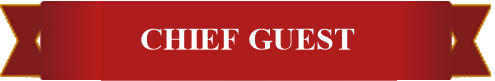
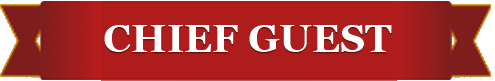
fix: switch ribbon typography to bold high-contrast Georgia font and increase height for clarity

Changed region(s): [[0.2121, 0.2963, 0.8182, 0.6667]]

diff --git a/src/app/page.tsx b/src/app/page.tsx
@@ -96,10 +96,10 @@ export default function InvitationPage() {
               <div className="person-col">
                 <div className="person-ribbon-wrap">
                   <Image
-                    src="/chief_guest_ribbon.png?v=2"
+                    src="/chief_guest_ribbon.png?v=3"
                     alt="Chief Guest"
-                    width={136}
-                    height={30}
+                    width={140}
+                    height={23}
                     className="person-ribbon-img"
                     priority
                   />
@@ -125,10 +125,10 @@ export default function InvitationPage() {
               <div className="person-col">
                 <div className="person-ribbon-wrap">
                   <Image
-                    src="/founder_ribbon.png?v=2"
+                    src="/founder_ribbon.png?v=3"
                     alt="Founder"
-                    width={136}
-                    height={30}
+                    width={140}
+                    height={23}
                     className="person-ribbon-img"
                     priority
                   />

diff --git a/src/app/globals.css b/src/app/globals.css
@@ -438,13 +438,13 @@ div[data-next-badge] {
   justify-content: center;
   align-items: center;
   margin-bottom: 10px;
-  height: 28px;
+  height: 32px;
 }
 
 .person-ribbon-img {
   width: auto;
-  height: 24px;
-  max-width: 148px;
+  height: 28px;
+  max-width: 154px;
   object-fit: contain;
   display: block;
 }
